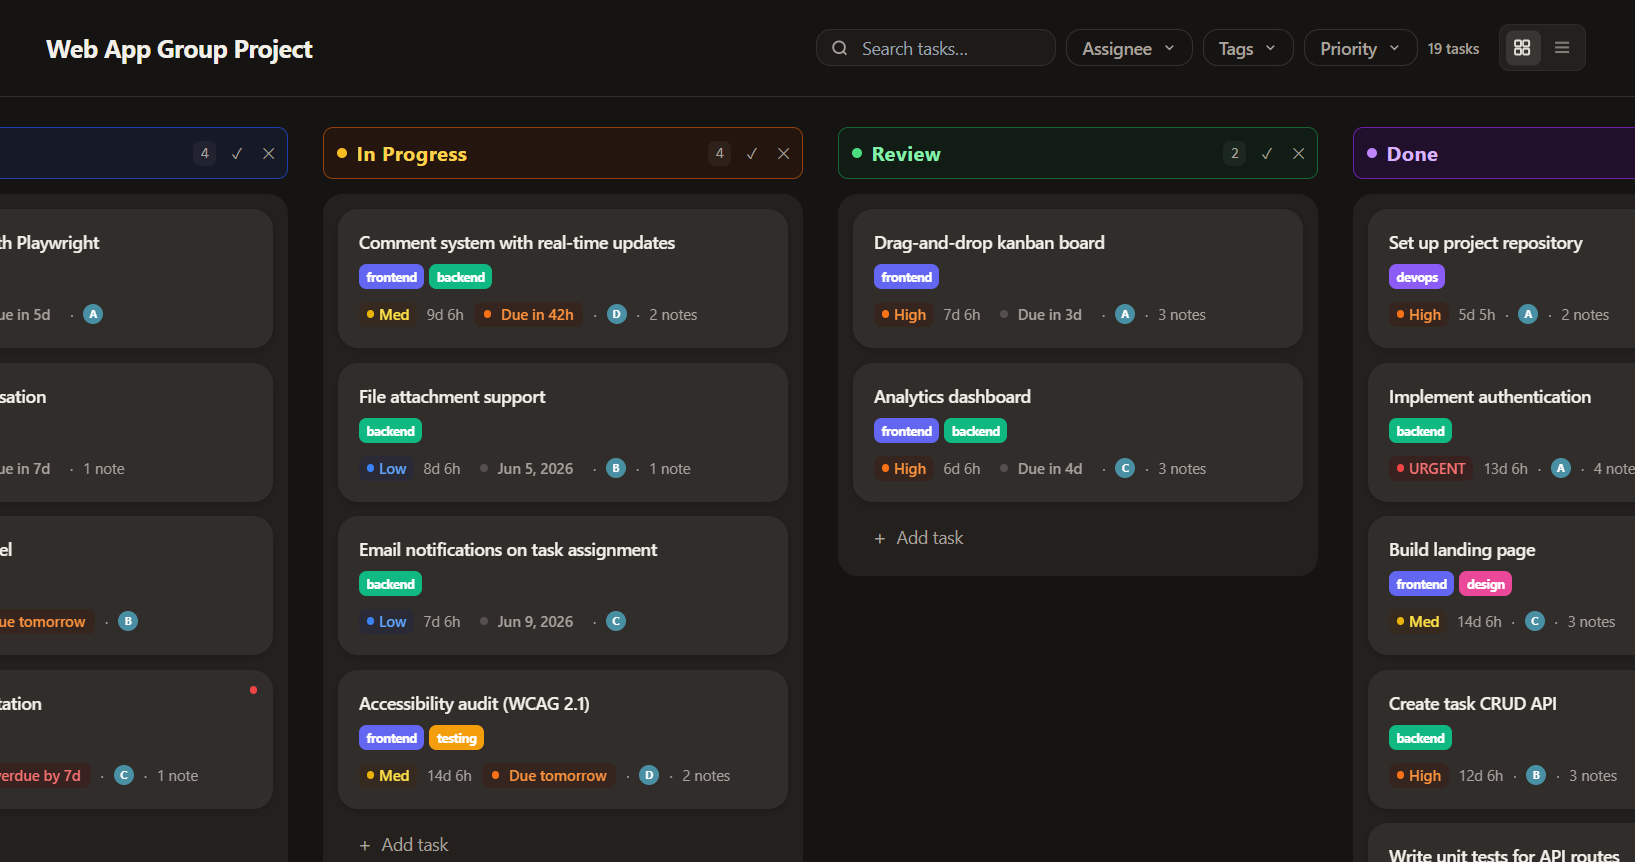
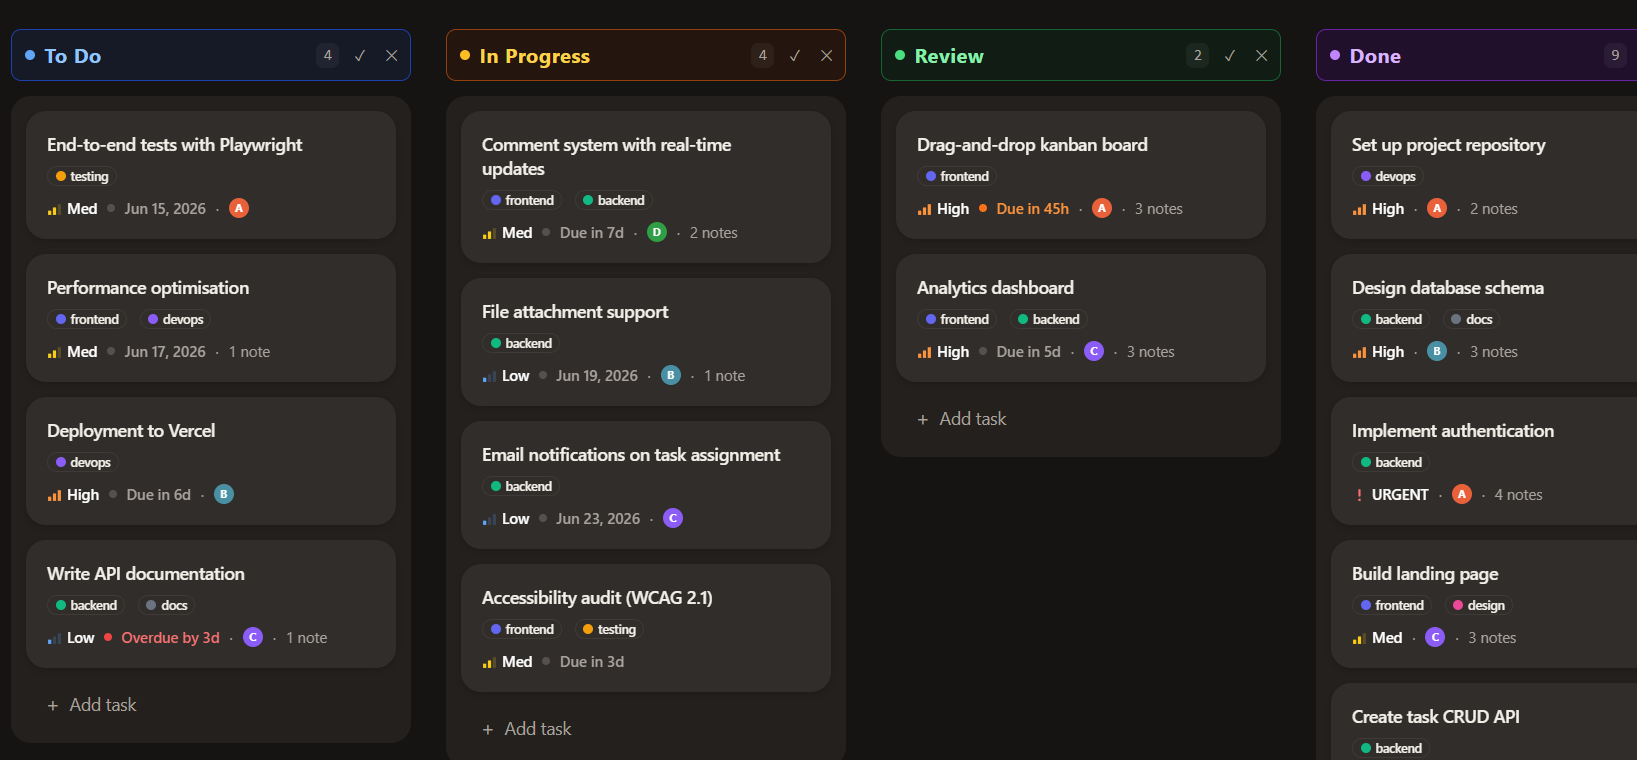
fix: resolve logic bugs in educator feature components

diff --git a/src/components/class/GroupBoardView.tsx b/src/components/class/GroupBoardView.tsx
@@ -37,12 +37,14 @@ export default function GroupBoardView({ boardId, boardName, currentUserId, real
   useEffect(() => {
     let cancelled = false;
     setIsLoading(true);
-    fetchBoardData().then((data) => {
-      if (cancelled) return;
-      setTasks(data.tasks);
-      setColumns(data.columns);
-      setIsLoading(false);
-    });
+    fetchBoardData()
+      .then((data) => {
+        if (cancelled) return;
+        setTasks(data.tasks);
+        setColumns(data.columns);
+        setIsLoading(false);
+      })
+      .catch(() => { if (!cancelled) setIsLoading(false); });
     return () => { cancelled = true; };
   }, [fetchBoardData]);
 

diff --git a/src/components/class/RosterPanel.tsx b/src/components/class/RosterPanel.tsx
@@ -92,6 +92,7 @@ export default function RosterPanel({ classId, ownerId, onOpenBoard, onChanged }
   const [members, setMembers] = useState<Member[]>([]);
   const [groups, setGroups] = useState<Group[]>([]);
   const [loading, setLoading] = useState(true);
+  const [loadError, setLoadError] = useState(false);
   const [activeId, setActiveId] = useState<string | null>(null);
   const [newGroupName, setNewGroupName] = useState("");
   const [busy, setBusy] = useState(false);
@@ -105,13 +106,18 @@ export default function RosterPanel({ classId, ownerId, onOpenBoard, onChanged }
 
   const load = useCallback(async () => {
     setLoading(true);
+    setLoadError(false);
     try {
       const res = await fetch(`/api/classes/${classId}`, { cache: "no-store" });
       if (res.ok) {
         const data = await res.json();
         setMembers(data.members || []);
         setGroups(data.groups || []);
+      } else {
+        setLoadError(true);
       }
+    } catch {
+      setLoadError(true);
     } finally {
       setLoading(false);
     }
@@ -252,6 +258,14 @@ export default function RosterPanel({ classId, ownerId, onOpenBoard, onChanged }
 
   if (loading) {
     return <div className="flex-1 flex items-center justify-center text-sm text-muted">Loading roster…</div>;
+  }
+  if (loadError) {
+    return (
+      <div className="flex-1 flex flex-col items-center justify-center gap-3 text-sm text-muted">
+        <p>Failed to load roster.</p>
+        <button onClick={load} className="text-xs underline">Retry</button>
+      </div>
+    );
   }
 
   const activeMember = members.find((m) => m.userId === activeId) || null;

diff --git a/src/components/class/PresetEditor.tsx b/src/components/class/PresetEditor.tsx
@@ -28,7 +28,8 @@ export default function PresetEditor({ classId }: Props) {
         setColumns(data.columns || []);
         setTasks(data.tasks || []);
         setLoading(false);
-      });
+      })
+      .catch(() => { if (!cancelled) setLoading(false); });
     return () => { cancelled = true; };
   }, [classId]);
 

diff --git a/src/components/class/ClassSettingsPanel.tsx b/src/components/class/ClassSettingsPanel.tsx
@@ -43,6 +43,7 @@ export default function ClassSettingsPanel({ classId, initialName, initialTerm, 
       if (!res.ok) throw new Error("patch failed");
       setSavedMsg(msg);
       setTimeout(() => setSavedMsg(null), 1500);
+      router.refresh();
       return true;
     } catch {
       push({ title: "Couldn't save changes", description: "Please try again." });